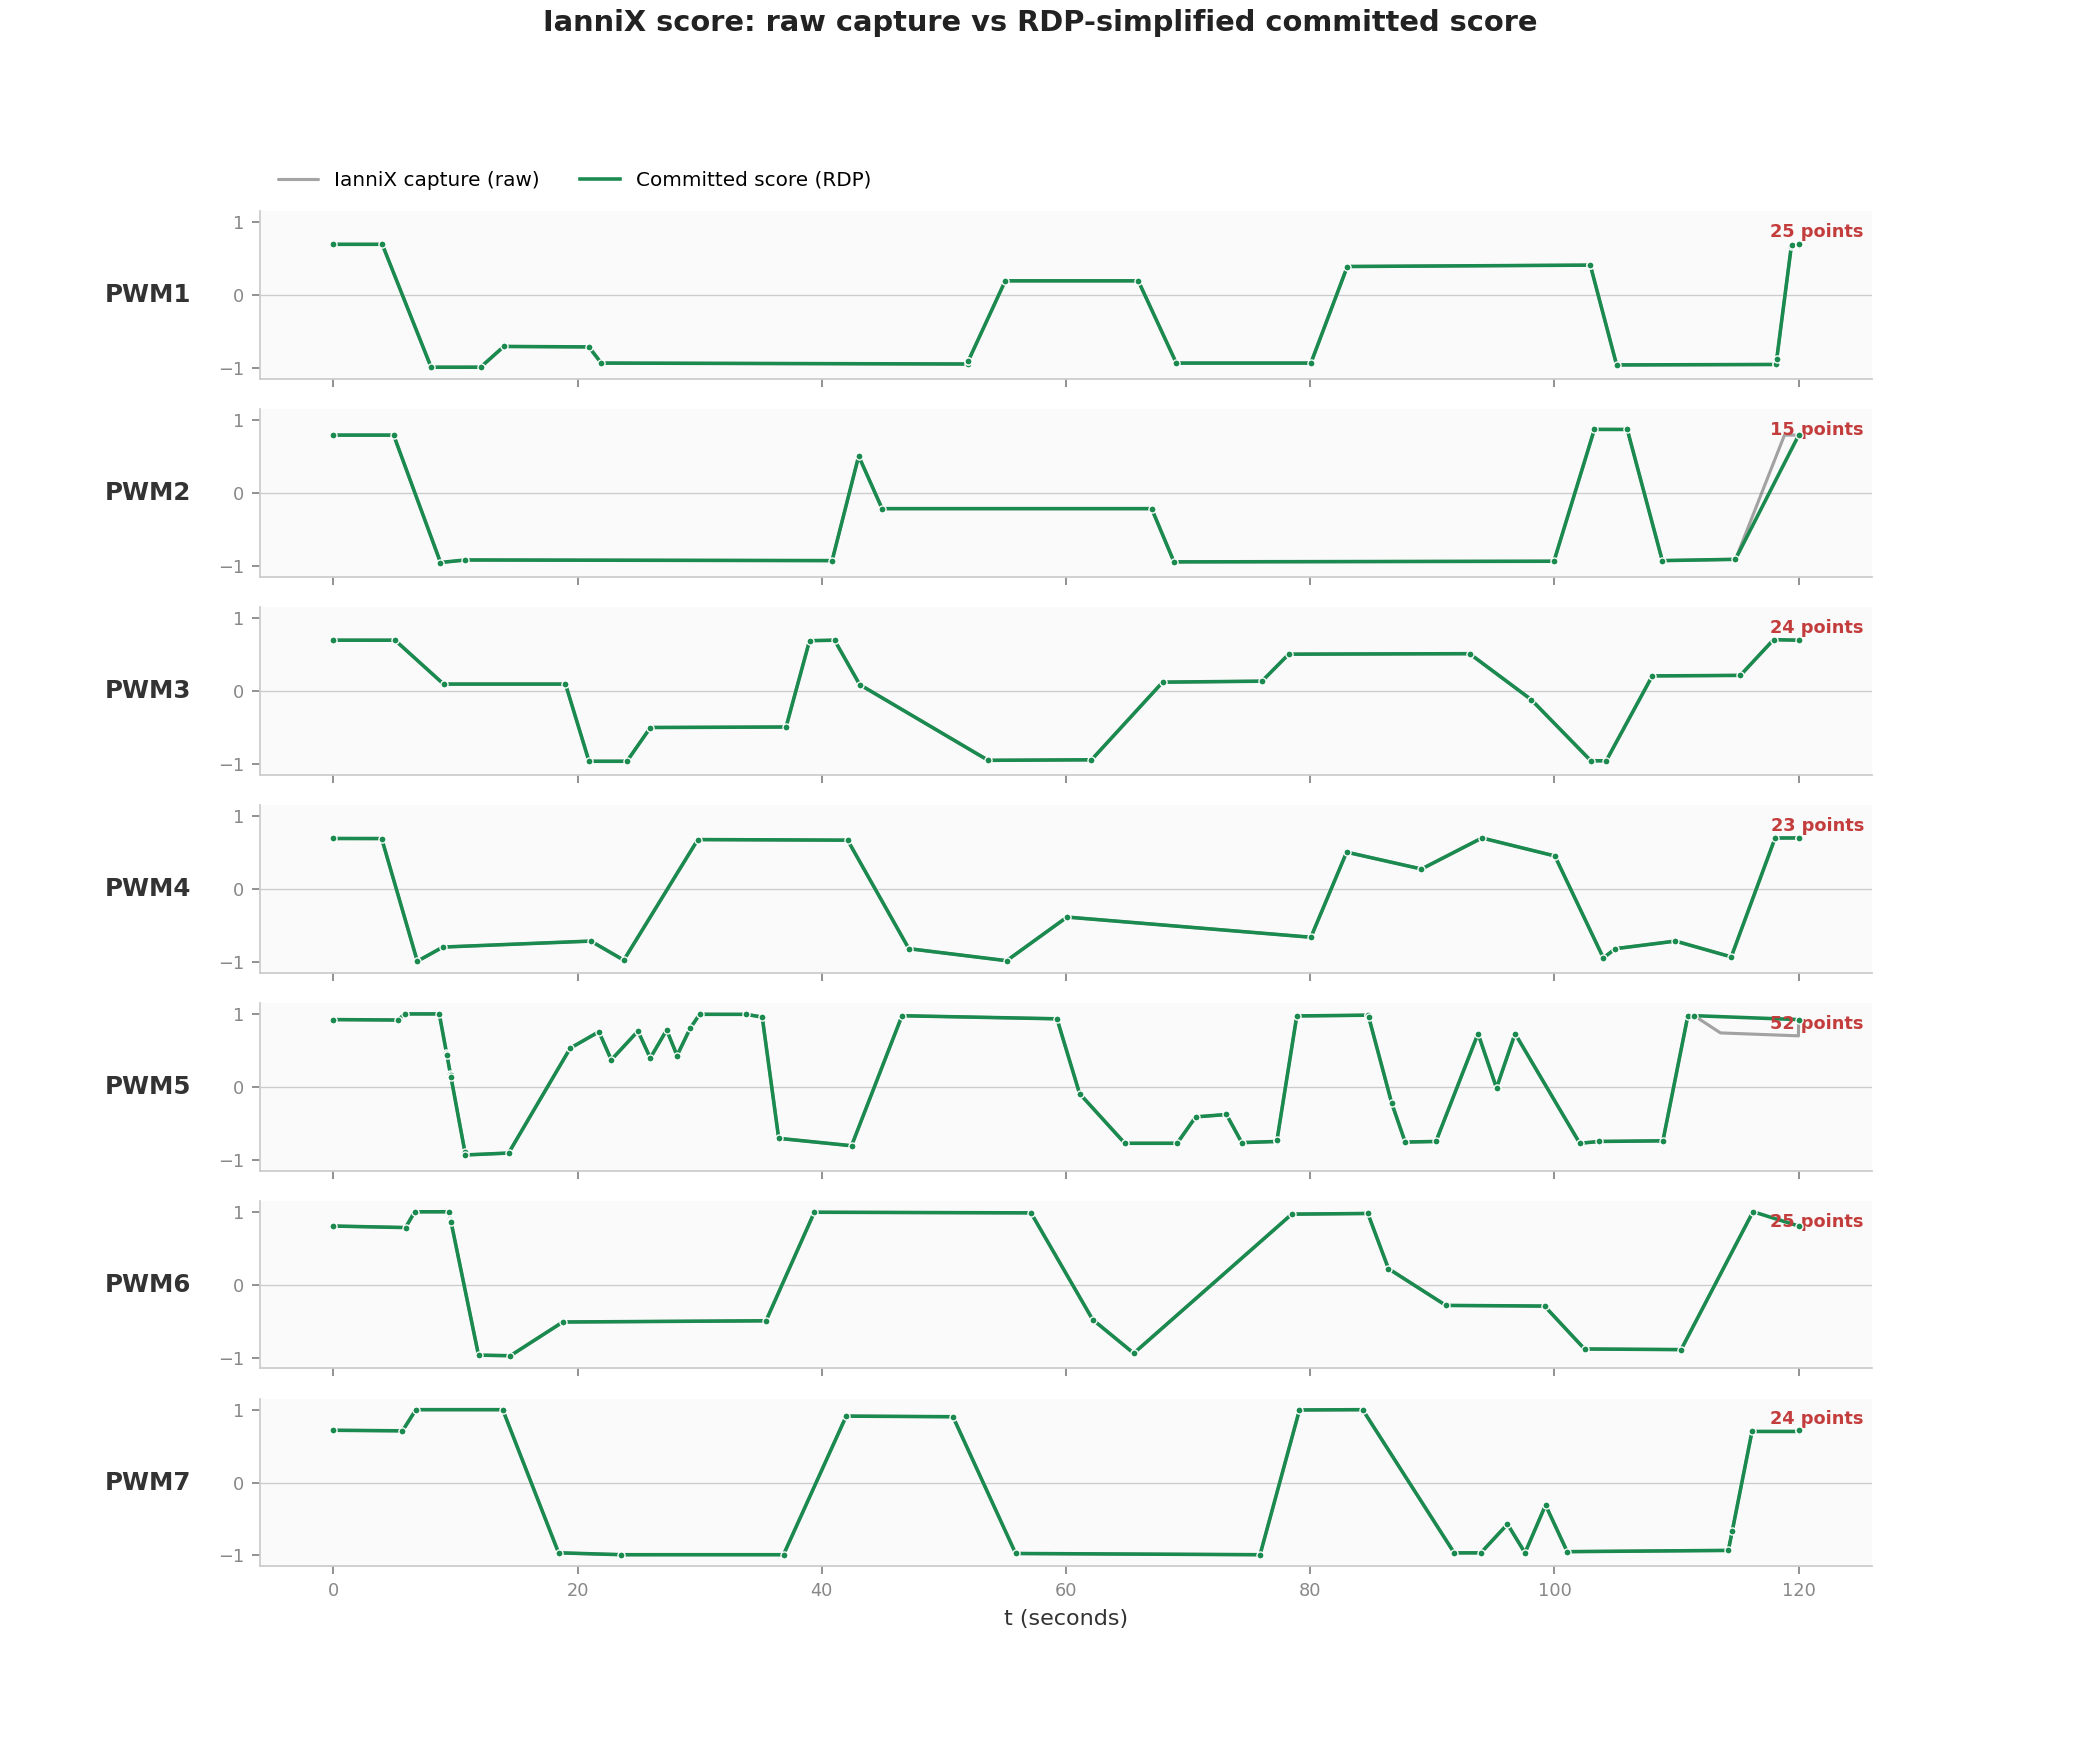
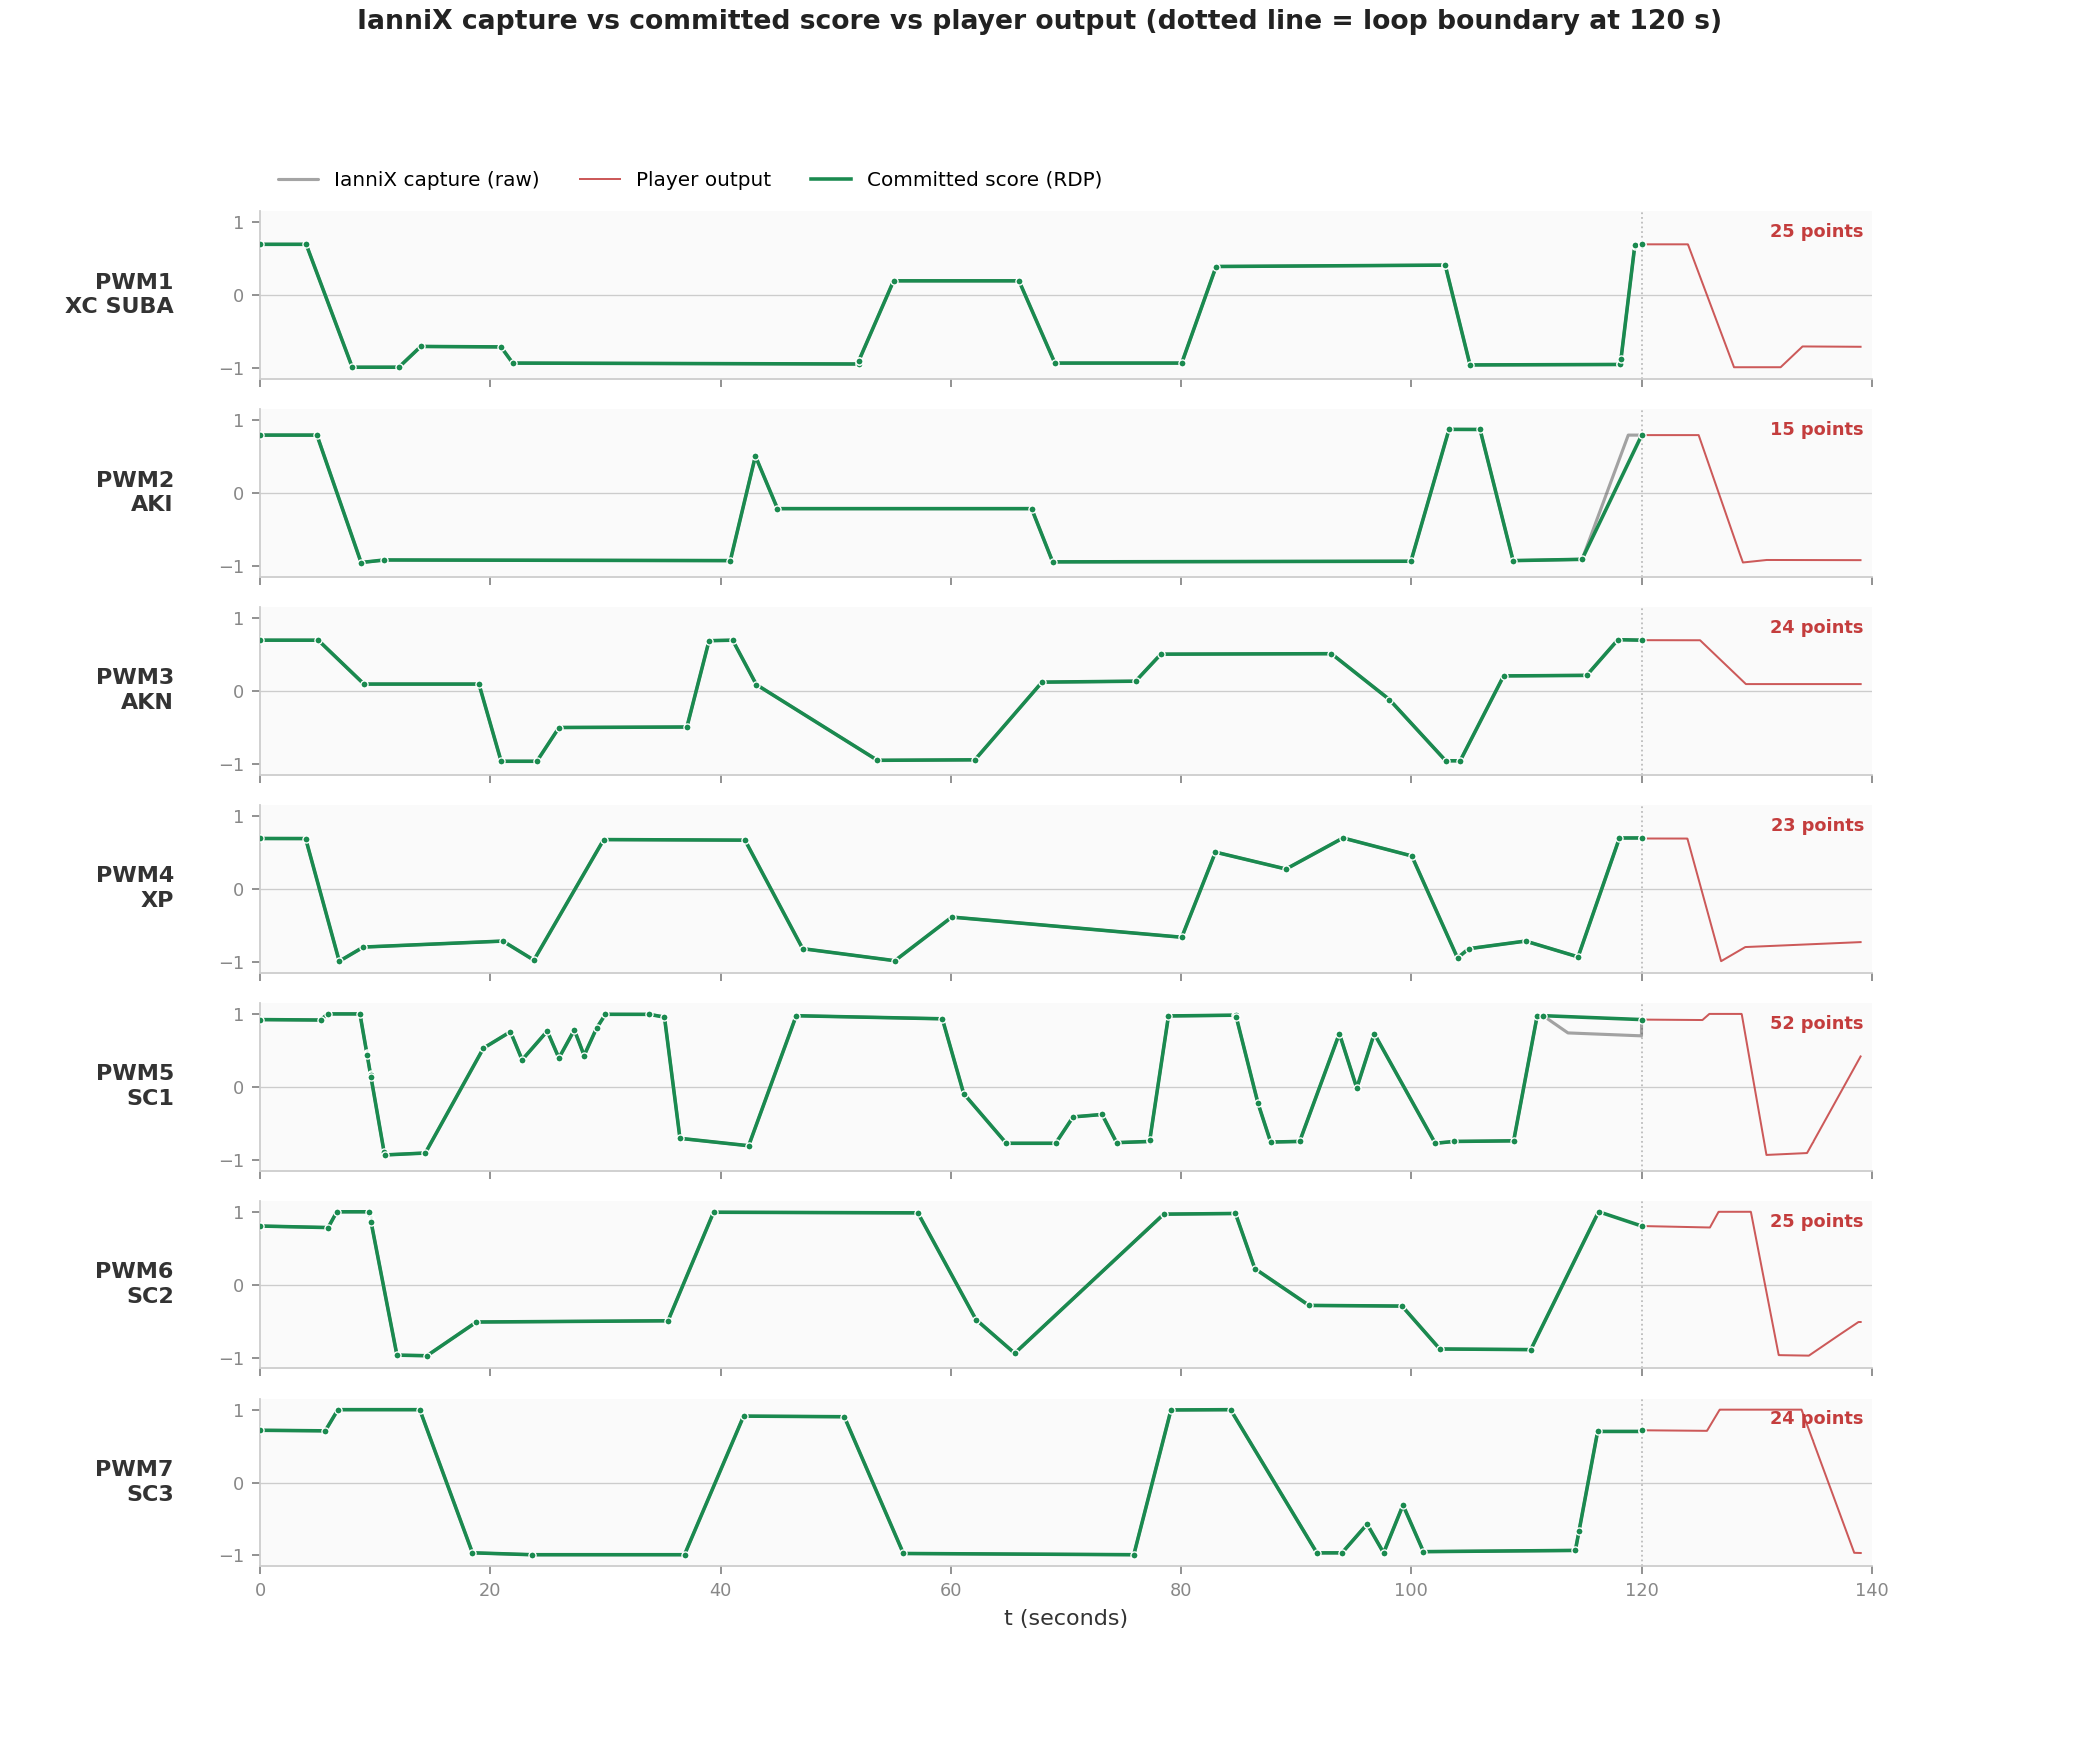
Add player-output capture, tube names, and update procedure docs
End-to-end verification: a new extras/iannix/capture_player.sh runs all
seven score players in parallel against the local OSC sink for ~140 s
(beyond the 120 s loop boundary so the wraparound is exercised). The
plot now overlays three traces -- IanniX raw capture, committed RDP
score, and player output -- so visual inspection confirms the player
faithfully reproduces the score and loops cleanly.

Tube names (PWM1=XC SUBA, PWM2=AKI, PWM3=AKN, PWM4=XP, PWM5=SC1,
PWM6=SC2, PWM7=SC3) are now baked into:
- score CSV headers
- plot y-axis labels

README gets an "Updating deployed Pis" section covering both flows:
- single-Pi via `ssh pi@... && cd ... && git pull && sudo make deploy`
- whole-fleet via `make fleet-update [pwm1 pwm3 ...]`

scores/capture_player/ is gitignored (regenerable, bulky).

diff --git a/extras/iannix/plot_scores.py b/extras/iannix/plot_scores.py
@@ -18,6 +18,17 @@ import matplotlib.pyplot as plt
 
 ROOTS = ["pwm1", "pwm2", "pwm3", "pwm4", "pwm5", "pwm6", "pwm7"]
 
+# Mirror finalize_captures.TUBE_NAMES so the plot is self-documenting.
+TUBE_NAMES = {
+    "pwm1": "XC SUBA",
+    "pwm2": "AKI",
+    "pwm3": "AKN",
+    "pwm4": "XP",
+    "pwm5": "SC1",
+    "pwm6": "SC2",
+    "pwm7": "SC3",
+}
+
 
 def load(path: str) -> Tuple[List[float], List[float]]:
     ts: List[float] = []
@@ -38,8 +49,16 @@ def load(path: str) -> Tuple[List[float], List[float]]:
 def main() -> int:
     p = argparse.ArgumentParser(description=__doc__)
     p.add_argument('--capture-dir', default='scores/capture')
+    p.add_argument('--player-dir', default='scores/capture_player',
+                   help='Optional: per-tube CSVs captured from the score '
+                        'player itself; overlaid as a third trace if '
+                        'present')
     p.add_argument('--scores-dir', default='scores')
-    p.add_argument('--max-t', type=float, default=120.0)
+    p.add_argument('--max-t', type=float, default=120.0,
+                   help='Plot range upper bound on the x-axis (s)')
+    p.add_argument('--player-max-t', type=float, default=140.0,
+                   help='How much player capture to show (s); >max-t shows '
+                        'the loop wrap')
     p.add_argument('--out', default='docs/scores_vs_capture.png')
     p.add_argument('--dpi', type=int, default=160)
     args = p.parse_args()
@@ -53,7 +72,16 @@ def main() -> int:
 
     raw_color = '#5a5a5a'
     fin_color = '#1a8a4f'
+    play_color = '#c43d3d'
     accent_color = '#c43d3d'
+
+    # Detect any player traces up front so the legend reflects what we
+    # actually plot.
+    have_player = any(
+        os.path.exists(os.path.join(args.player_dir, '{}.csv'.format(r)))
+        for r in ROOTS)
+
+    x_max = max(args.max_t, args.player_max_t if have_player else args.max_t)
 
     for ax, root in zip(axes, ROOTS):
         ax.set_facecolor('#fafafa')
@@ -62,12 +90,17 @@ def main() -> int:
         ax.spines['left'].set_color('#cccccc')
         ax.spines['bottom'].set_color('#cccccc')
         ax.tick_params(colors='#888888', labelsize=8)
+        ax.set_xlim(0, x_max)
         ax.set_ylim(-1.15, 1.15)
         ax.set_yticks([-1, 0, 1])
         ax.axhline(0, color='#cccccc', linewidth=0.6, zorder=0)
+        if have_player:
+            ax.axvline(args.max_t, color='#bbbbbb', linewidth=0.8,
+                       linestyle=':', zorder=1)
 
         raw_path = os.path.join(args.capture_dir, '{}.csv'.format(root))
         fin_path = os.path.join(args.scores_dir, '{}.csv'.format(root))
+        play_path = os.path.join(args.player_dir, '{}.csv'.format(root))
 
         if os.path.exists(raw_path):
             t, v = load(raw_path)
@@ -79,6 +112,16 @@ def main() -> int:
                 solid_capstyle='round',
                 label='IanniX capture (raw)' if root == ROOTS[0] else None,
                 zorder=2)
+
+        if os.path.exists(play_path):
+            t, v = load(play_path)
+            t_trim = [tt for tt in t if tt <= args.player_max_t]
+            v_trim = v[:len(t_trim)]
+            ax.plot(
+                t_trim, v_trim,
+                color=play_color, linewidth=0.9, alpha=0.85,
+                label='Player output' if root == ROOTS[0] else None,
+                zorder=2.5)
 
         if os.path.exists(fin_path):
             t, v = load(fin_path)
@@ -97,11 +140,14 @@ def main() -> int:
         else:
             n_pts = 0
 
+        name = TUBE_NAMES.get(root, '')
+        label = '{}\n{}'.format(root.upper(), name) if name else root.upper()
         ax.set_ylabel(
-            root.upper(),
+            label,
             rotation=0, ha='right', va='center',
-            fontsize=11, fontweight='bold',
-            color='#333333', labelpad=12)
+            fontsize=10, fontweight='bold',
+            color='#333333', labelpad=20,
+            linespacing=1.3)
 
         ax.text(
             0.995, 0.93,
@@ -113,11 +159,16 @@ def main() -> int:
     axes[-1].set_xlabel('t (seconds)', fontsize=10, color='#333333')
     axes[0].legend(
         loc='lower left', frameon=False, fontsize=9,
-        ncol=2, bbox_to_anchor=(0, 1.02))
+        ncol=3 if have_player else 2,
+        bbox_to_anchor=(0, 1.02))
 
-    fig.suptitle(
-        'IanniX score: raw capture vs RDP-simplified committed score',
-        fontsize=13, fontweight='bold', color='#222222', y=0.995)
+    if have_player:
+        title = ('IanniX capture vs committed score vs player output '
+                 '(dotted line = loop boundary at 120 s)')
+    else:
+        title = 'IanniX score: raw capture vs RDP-simplified committed score'
+    fig.suptitle(title, fontsize=12, fontweight='bold',
+                 color='#222222', y=0.995)
 
     out_dir = os.path.dirname(args.out)
     if out_dir:

diff --git a/extras/iannix/finalize_captures.py b/extras/iannix/finalize_captures.py
@@ -21,6 +21,20 @@ import sys
 from typing import List, Tuple
 
 
+# Authoritative tube names. Sourced from the `setlabel` lines in the
+# production IanniX score; mirrored in the plot and in CSV headers so the
+# physical tube identity is clear when reading any one file in isolation.
+TUBE_NAMES = {
+    "pwm1": "XC SUBA",
+    "pwm2": "AKI",
+    "pwm3": "AKN",
+    "pwm4": "XP",
+    "pwm5": "SC1",
+    "pwm6": "SC2",
+    "pwm7": "SC3",
+}
+
+
 def read_csv(path: str) -> List[Tuple[float, float]]:
     rows: List[Tuple[float, float]] = []
     with open(path) as fp:
@@ -86,9 +100,12 @@ def rdp(rows, tol):
 def write_csv(path: str, rows, root: str) -> None:
     # Anchor t=0 if needed.
     t0 = rows[0][0] if rows else 0.0
+    name = TUBE_NAMES.get(root)
     with open(path, 'w') as fp:
         fp.write("# scores/{}.csv\n".format(root))
-        fp.write("# Captured from IanniX, truncated and deduplicated\n")
+        if name is not None:
+            fp.write("# {} = {}\n".format(root.upper(), name))
+        fp.write("# Captured from IanniX, RDP-simplified\n")
         fp.write("# t_seconds, fine_value      "
                  "(fine_value in [-1, 1])\n")
         for t, v in rows:

diff --git a/README.md b/README.md
@@ -90,6 +90,61 @@ You should now be able to connect to a remote Raspberry Pi running the
 `pigpiod` daemon. 
 
 
+## Updating deployed Pis
+
+Once code lands on `master`, deployed Pis need to pull the new commits
+and restart the systemd services. Two equivalent paths.
+
+### One Pi at a time (manual)
+
+SSH in and run `make deploy`:
+
+```
+ssh pi@192.168.1.11        # use the Pi's IP for the tube you're updating
+cd ~/cdf-plasma-controller
+git pull
+sudo make deploy
+```
+
+`make deploy` reinstalls Python deps from `requirements.txt`, refreshes
+both `plasma_controller.service` and `plasma_player.service`, runs
+`systemctl daemon-reload`, and restarts both services so the new code
+takes effect immediately.
+
+To watch logs after the restart:
+
+```
+sudo journalctl -u plasma_controller -f       # PWM controller
+sudo journalctl -u plasma_player -f           # score player
+```
+
+Or via the Makefile shortcuts: `make logs` and `make player-logs`.
+
+### Whole fleet (laptop-side)
+
+From a laptop on the same LAN as the gallery network:
+
+```
+make fleet-update                  # update every known Pi
+make fleet-update pwm1 pwm3        # update a subset by tube name
+```
+
+This SSHes into each Pi listed in `scripts/update_fleet.sh` (mapping
+tube name → IP) and runs the same `git pull && sudo make deploy` flow
+on each. Output is prefixed by tube name; failures on one Pi are logged
+but don't abort the rest of the rollout.
+
+When you add a new Pi to the fleet, update **both**:
+
+- `scripts/update_fleet.sh` — the `TUBE_IPS` map
+- `config/irobot.conf` — a new `[<cpu_serial>]` section with the tube's
+  per-Pi center frequency, spread, and (optional) `button_pin`
+
+The script's first run from a given laptop will accept the Pi's host key
+on first connect (`StrictHostKeyChecking=accept-new`); subsequent runs
+go through cleanly.
+
+
 ## Running
 
 There are two ways to control the PWM, either via the keyboard or